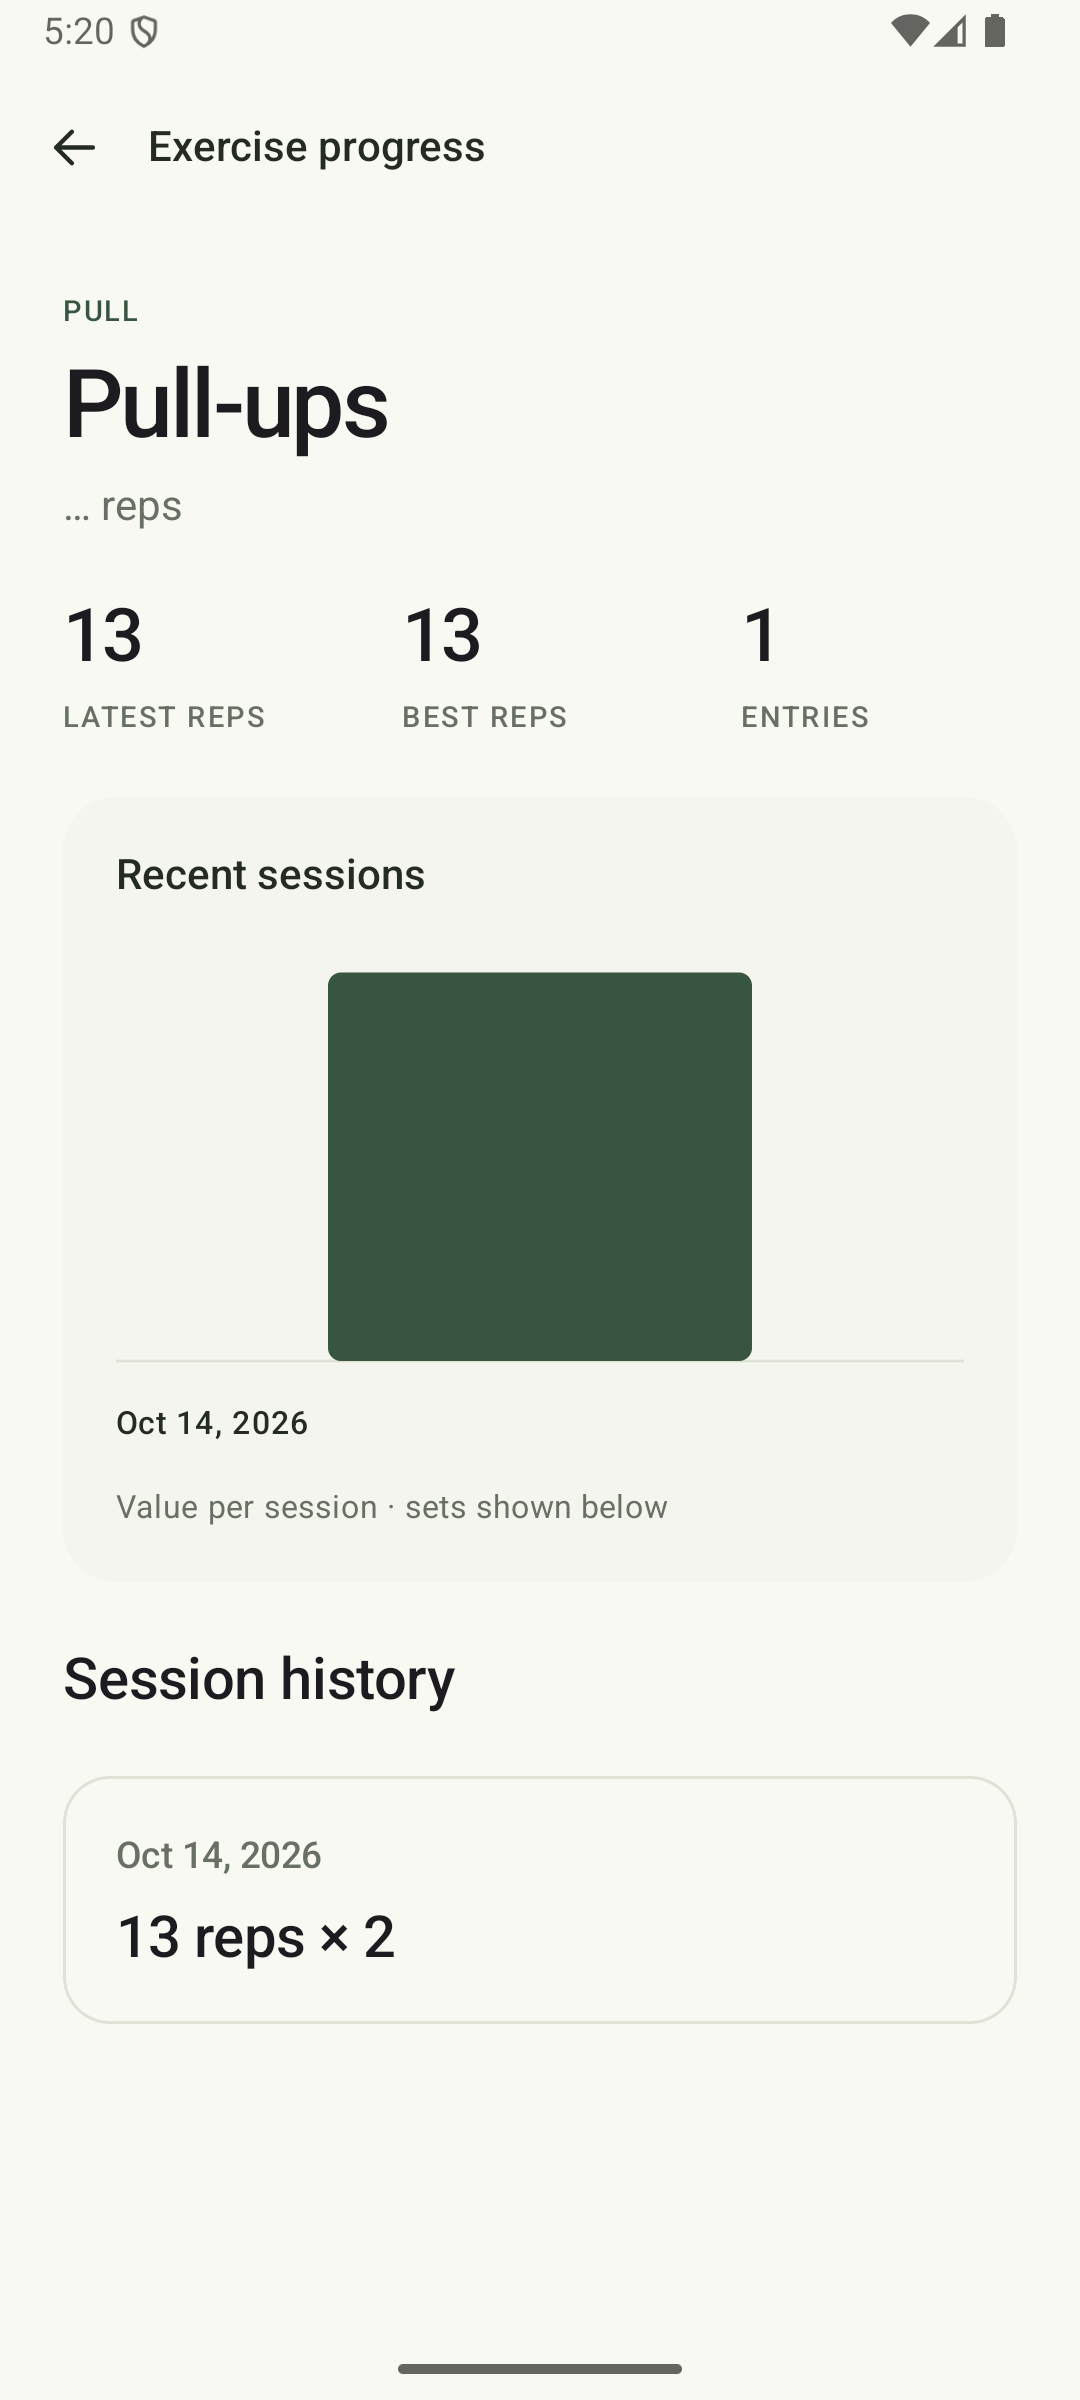
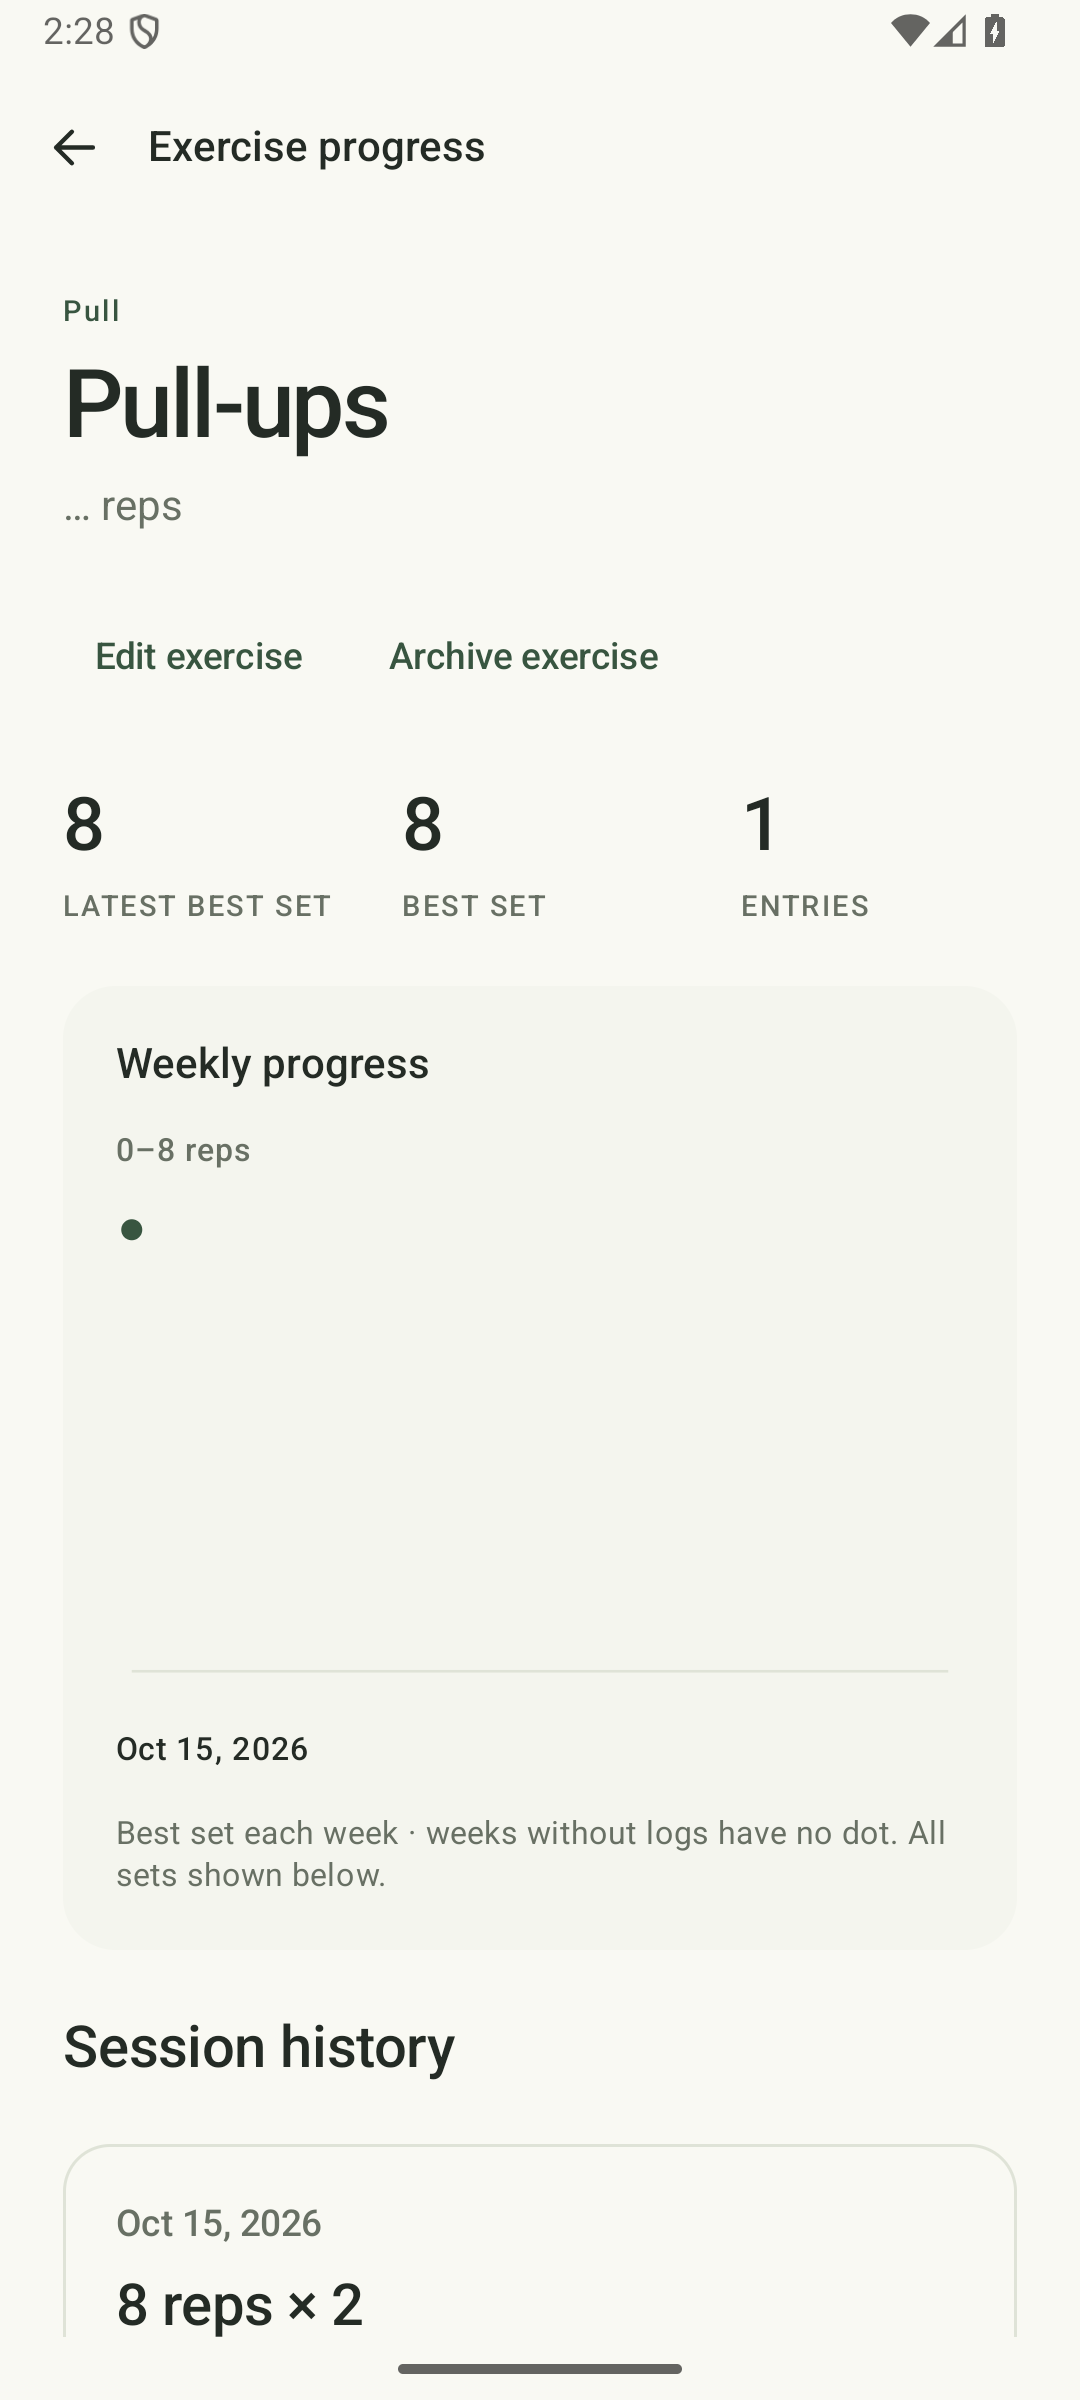
Release 1.0.2 with saved theme settings and updated light screenshots

diff --git a/app/src/main/java/com/dinogym/ui/main/HomeScreen.kt b/app/src/main/java/com/dinogym/ui/main/HomeScreen.kt
@@ -1,6 +1,7 @@
 package com.dinogym.ui.main
 
 import androidx.activity.compose.BackHandler
+import androidx.compose.foundation.selection.toggleable
 import androidx.compose.foundation.verticalScroll
 import androidx.compose.foundation.rememberScrollState
 import androidx.compose.foundation.layout.*
@@ -37,6 +38,8 @@ fun HomeScreen(
     onPlans: () -> Unit = {},
     onWorkoutProgress: (String, String) -> Unit = { exercise, _ -> onProgress(exercise) },
     onEditWorkout: (String) -> Unit = { onPlans() },
+    darkTheme: Boolean = androidx.compose.foundation.isSystemInDarkTheme(),
+    onDarkThemeChange: (Boolean) -> Unit = {},
 ) {
     var tab by rememberSaveable { mutableIntStateOf(initialTab) }
     val labels = listOf("Train", "Progress", "Exercises")
@@ -67,7 +70,7 @@ fun HomeScreen(
                         0 -> TrainScreen(state, onRoutine, onHistory, onPlans, onProgress, onEditWorkout)
                         1 -> ProgressScreen(state.data, onWorkoutProgress)
                         2 -> LibraryScreen(state, onProgress, onAddExercise, onUpdateExercise,
-                            onArchiveExercise, onRestoreExercise)
+                            onArchiveExercise, onRestoreExercise, darkTheme, onDarkThemeChange)
                     }
                 }
             }
@@ -151,7 +154,10 @@ private fun LibraryScreen(
     onUpdate: (Exercise, () -> Unit) -> Unit,
     onArchive: (String, () -> Unit) -> Unit,
     onRestore: (String, () -> Unit) -> Unit,
+    darkTheme: Boolean,
+    onDarkThemeChange: (Boolean) -> Unit,
 ) {
+    var settingsOpen by rememberSaveable { mutableStateOf(false) }
     var query by rememberSaveable { mutableStateOf("") }
     var showArchived by rememberSaveable { mutableStateOf(false) }
     var adding by rememberSaveable { mutableStateOf(false) }
@@ -164,7 +170,10 @@ private fun LibraryScreen(
     }
     Column(Modifier.widthIn(max = 760.dp).fillMaxSize()) {
         Column(Modifier.padding(24.dp), verticalArrangement = Arrangement.spacedBy(20.dp)) {
-            Heading("LIBRARY", "Exercises")
+            Row(Modifier.fillMaxWidth(), verticalAlignment = Alignment.CenterVertically) {
+                Box(Modifier.weight(1f)) { Heading("LIBRARY", "Exercises") }
+                TextButton(onClick = { settingsOpen = true }) { Text("Settings") }
+            }
             FilledTonalButton(onClick = { adding = true }, enabled = !state.saving) {
                 Icon(AppIcons.Add, null); Spacer(Modifier.width(8.dp)); Text("New exercise")
             }
@@ -202,6 +211,19 @@ private fun LibraryScreen(
             }
         }
     }
+    if (settingsOpen) AlertDialog(
+        onDismissRequest = { settingsOpen = false },
+        title = { Text("Settings") },
+        text = {
+            Row(Modifier.fillMaxWidth().toggleable(value = darkTheme,
+                role = androidx.compose.ui.semantics.Role.Switch, onValueChange = onDarkThemeChange)
+                .heightIn(min = 48.dp), verticalAlignment = Alignment.CenterVertically) {
+                Text("Dark mode", Modifier.weight(1f))
+                Switch(checked = darkTheme, onCheckedChange = null)
+            }
+        },
+        confirmButton = { TextButton(onClick = { settingsOpen = false }) { Text("Done") } },
+    )
     if (adding) ExerciseDialog(null, state.saving, onDismiss = { adding = false }, onSave = onAdd)
     if (editing != null) ExerciseDialog(editing, state.saving,
         onDismiss = { editingId = null }, onSave = onUpdate)

diff --git a/app/src/main/java/com/dinogym/theme/Theme.kt b/app/src/main/java/com/dinogym/theme/Theme.kt
@@ -8,16 +8,16 @@ import androidx.compose.ui.graphics.Color
 import androidx.compose.ui.platform.LocalContext
 
 private val LightColors = lightColorScheme(
-    primary = Color(0xFF245AC0), onPrimary = Color.White,
-    tertiary = Color(0xFF2B66D9), onTertiary = Color.White,
-    primaryContainer = Color(0xFFE2EAFF), onPrimaryContainer = Color(0xFF122F69),
-    secondary = Color(0xFF245AC0), onSecondary = Color.White,
-    secondaryContainer = Color(0xFFE8EDFA), onSecondaryContainer = Color(0xFF122F69),
-    background = Color(0xFFF6F7FA), surface = Color(0xFFF6F7FA),
-    onBackground = Color(0xFF191C23), onSurface = Color(0xFF191C23),
-    surfaceContainer = Color(0xFFE8EBF1), surfaceContainerLow = Color.White,
-    onSurfaceVariant = Color(0xFF596170), outlineVariant = Color(0xFFD9DDE5),
-    outline = Color(0xFF737C8C), surfaceTint = Color(0xFF245AC0),
+    primary = Color(0xFF385540), onPrimary = Color.White,
+    tertiary = Color(0xFF385540), onTertiary = Color.White,
+    primaryContainer = Color(0xFFE2EBDC), onPrimaryContainer = Color(0xFF263D2C),
+    secondary = Color(0xFF385540), onSecondary = Color.White, onSecondaryContainer = Color(0xFF263D2C),
+    background = Color(0xFFF9F9F3), surface = Color(0xFFF9F9F3),
+    onBackground = Color(0xFF242B25),
+    surfaceContainer = Color(0xFFF0F1E9), surfaceContainerLow = Color(0xFFF4F5EE),
+    onSurface = Color(0xFF242B25), onSurfaceVariant = Color(0xFF687064),
+    outlineVariant = Color(0xFFDFE3D7), secondaryContainer = Color(0xFFE7EBDD),
+    outline = Color(0xFF818B7B), surfaceTint = Color(0xFF385540),
 )
 private val DarkColors = darkColorScheme(
     primary = Color(0xFF82ABFF), onPrimary = Color(0xFF082655),

diff --git a/app/src/main/java/com/dinogym/MainActivity.kt b/app/src/main/java/com/dinogym/MainActivity.kt
@@ -4,6 +4,8 @@ import android.os.Bundle
 import androidx.activity.ComponentActivity
 import androidx.activity.compose.setContent
 import androidx.activity.enableEdgeToEdge
+import androidx.compose.foundation.isSystemInDarkTheme
+import androidx.compose.runtime.*
 import androidx.compose.foundation.layout.fillMaxSize
 import androidx.compose.material3.MaterialTheme
 import androidx.compose.material3.Surface
@@ -16,7 +18,19 @@ class MainActivity : ComponentActivity() {
 
     enableEdgeToEdge()
     setContent {
-      DinoGymTheme { Surface(modifier = Modifier.fillMaxSize(), color = MaterialTheme.colorScheme.background) { MainNavigation() } }
+      val preferences = remember { getSharedPreferences("appearance", MODE_PRIVATE) }
+      var darkOverride by remember {
+        mutableStateOf(if (preferences.contains("dark_mode")) preferences.getBoolean("dark_mode", false) else null)
+      }
+      val darkTheme = darkOverride ?: isSystemInDarkTheme()
+      DinoGymTheme(darkTheme = darkTheme) {
+        Surface(modifier = Modifier.fillMaxSize(), color = MaterialTheme.colorScheme.background) {
+          MainNavigation(darkTheme = darkTheme, onDarkThemeChange = { dark ->
+            preferences.edit().putBoolean("dark_mode", dark).apply()
+            darkOverride = dark
+          })
+        }
+      }
     }
   }
 }

diff --git a/app/src/main/java/com/dinogym/Navigation.kt b/app/src/main/java/com/dinogym/Navigation.kt
@@ -13,7 +13,10 @@ import androidx.navigation3.ui.NavDisplay
 import com.dinogym.ui.main.*
 
 @Composable
-fun MainNavigation(viewModel: WorkoutViewModel = viewModel()) {
+fun MainNavigation(viewModel: WorkoutViewModel = viewModel(),
+    darkTheme: Boolean = androidx.compose.foundation.isSystemInDarkTheme(),
+    onDarkThemeChange: (Boolean) -> Unit = {},
+) {
     val state by viewModel.state.collectAsStateWithLifecycle()
     val backStack = rememberNavBackStack(Main)
     if (state.loading) {
@@ -43,7 +46,8 @@ fun MainNavigation(viewModel: WorkoutViewModel = viewModel()) {
                     onArchiveExercise = viewModel::archiveExercise,
                     onRestoreExercise = viewModel::restoreExercise,
                     onPlans = { backStack.add(Plans) },
-                    onEditWorkout = { backStack.add(EditPlan(it)) })
+                    onEditWorkout = { backStack.add(EditPlan(it)) },
+                    darkTheme = darkTheme, onDarkThemeChange = onDarkThemeChange)
             }
             entry<Workout> { key ->
                 WorkoutScreen(key.routine, state, onBack = { backStack.removeLastOrNull() },

diff --git a/README.md b/README.md
@@ -4,9 +4,9 @@ DinoGym is a native Android workout tracker for recording bodyweight training an
 
 ## Screenshots
 
-| Training | Workout logging | Progress | Dark theme | Tablet layout |
+| Training | Workout logging | Progress | Settings | Tablet layout |
 | --- | --- | --- | --- | --- |
-| ![Training screen](docs/screenshots/train.png) | ![Workout screen](docs/screenshots/workout.png) | ![Progress screen](docs/screenshots/progress.png) | ![Dark theme](docs/screenshots/dark.png) | ![Tablet layout](docs/screenshots/tablet.png) |
+| ![Training screen](docs/screenshots/train.png) | ![Workout screen](docs/screenshots/workout.png) | ![Progress screen](docs/screenshots/progress.png) | ![Theme settings in light mode](docs/screenshots/settings.png) | ![Tablet layout](docs/screenshots/tablet.png) |
 
 ## Download
 
@@ -14,32 +14,28 @@ DinoGym is a native Android workout tracker for recording bodyweight training an
 
 ## Features
 
+- **Browse your plan:** swipe between the compact day overview and exercise details, or tap their tabs. Tap a selected day again to open its details, select a workout before starting it, or edit it from its day menu. Green accents and warm white surfaces define light mode.
 - **Plan training:** create named workouts and rotating training splits, reorder their exercises/workouts, and choose the split to follow. The home screen shows the next workout and advances after it is completed.
 - **Log workouts:** open the compact exercise overview, edit individual sets with reps (or a custom metric), optional kilograms, and notes, then mark sets logged. Only logged sets are saved. Optionally update workout targets when finishing.
 - **Share exercises:** maintain one exercise library and add the same exercise to multiple workouts with independent targets. Create exercises with a display template containing exactly one `{n}` placeholder and a metric unit. For example, `3s + {n} pulls + 3s` keeps the holds fixed while tracking pull repetitions.
 - **Manage exercises:** edit exercises, archive them after confirmation, and restore them from the Archived list. Archived exercises stay out of new workouts; saved history keeps its original exercise details.
 - **Manage workouts:** expand sessions in workout history, correct their values, sets, and notes, or delete a session after confirmation. Editing preserves the session's ID and date.
-- **Review progress:** compare a workout with the previous session, expand saved workout history, and view recent per-exercise performance in a chart.
+- **Review progress:** compare a workout with the previous session, expand saved workout history, and open exercises within each workout and compare weekly best-set values in a connected-dot line chart across the full saved history. Weeks start on Monday; missing weeks are not treated as zero.
 - **Stay focused:** highlight the next set, show the exercise's previous results and notes, reveal optional weight fields when needed, and move straight to the next exercise. Adjust an active or paused rest by 15 seconds, and filter workout history with the training calendar.
 - **Resume and rest:** active session drafts survive app restarts. Logging a set starts its configurable rest timer; pause, resume, restart, or skip it. A quiet ongoing notification supports background rest, with a sound-only completion alert and no vibration.
 - **Use it offline:** workouts and custom exercises are stored on the device and remain available after restarting the app.
-- **Adapt to the device:** use the system light or dark appearance, with wider layouts showing a navigation rail. Android wallpaper colors can be enabled in the app theme.
+- **Choose your theme:** open Settings at the top right of Exercises and toggle Dark mode. Your choice is saved between launches; the app follows the system appearance until you choose a mode. Wider layouts show a navigation rail.
 
-## Requirements
+## Phone requirements
 
-- Android Studio with Android Gradle Plugin support for the versions in `gradle/libs.versions.toml`
-- Android SDK Platform 36
-- JDK 17 (Android Studio's bundled Gradle JDK is suitable)
-- Android device or emulator running Android 8.0 (API 26) or newer
+- Android phone running Android 8.0 (API 26) or newer.
+- Internet access is only needed to download the APK. Workouts and custom exercises are stored on the phone and work offline.
 
-The application targets API 36 and has a minimum supported API level of 26. Gradle resolves dependencies from Google's Maven repository, Maven Central, and the Gradle Plugin Portal, so an internet connection is needed for the initial sync/build.
+The app targets Android 16 (API 36) and supports Android 8.0 (API 26) and newer. You do not need a computer or Android Studio to install or use the released APK. Download it from [GitHub Releases](https://github.com/Pierorivera1/DinoGym/releases/latest/download/app-debug.apk), open the downloaded APK on your phone, and allow installation from that source if Android asks. This release is a debug APK; Android may show a confirmation before installing it.
 
-## Open and run in Android Studio
+## Optional: open and run the project in Android Studio
 
-1. Clone or download the repository and open the **repository root** (`DinoGym`) in Android Studio. If Android Studio currently has the folder open as a plain project, choose **File → Open** and select this root folder to import the Gradle project.
-2. Allow Gradle sync to complete. If prompted, install Android SDK Platform 36 and select JDK 17 as the Gradle JDK.
-3. Select the `app` run configuration and an API 26+ device or emulator.
-4. Press **Run**. Android Studio installs the debug build on the selected device.
+Android Studio is only needed if you want to build or modify the app from source, or run it from the IDE. Open the repository root (`DinoGym`) as a Gradle project, let Gradle sync, then select the `app` configuration and an Android 8.0+ phone or emulator and press **Run**. For this development workflow, install Android SDK Platform 36 when prompted and use JDK 17 (Android Studio's bundled Gradle JDK is suitable). An internet connection is needed for the initial Gradle sync/build because Gradle downloads the project dependencies and plugins.
 
 Compose previews are in `app/src/main/java/com/dinogym/ui/main/Previews.kt`. Open that file and use the editor's Split or Design view to inspect the sample light, dark, workout, progress, exercise, and wider-screen layouts. Preview data is separate from installed app data.
 
